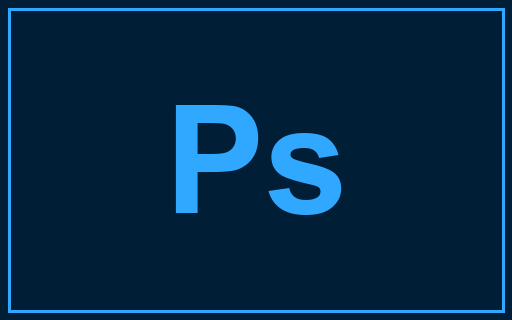
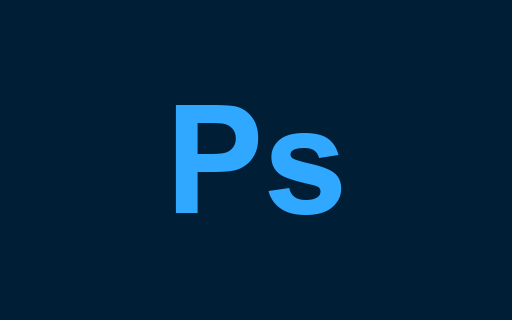
Fix Specials back-arrow bar, PSD tile line, Audio&EQ thumbnails
- Sticky category header is a frosted bar; the old gradient band read as a
  hard 'cut out' edge behind the back arrow
- Regenerate the PSD tile solid (drop the light-blue border line)
- Audio & EQ art now belongs to the FOLDER cover (Sennheiser 650 ->
  headphones) instead of being stamped on every PDF/preset/app inside it

Changed region(s): [[0.0, 0.0, 1.0, 1.0]]

diff --git a/src/components/SpecialsContent.tsx b/src/components/SpecialsContent.tsx
@@ -17,7 +17,7 @@ import { useSpecialsSelectionStore } from "../state/specialsSelectionStore";
 // sounds, themes, the programs folders). Everything shows on Windows.
 const MAC_FOLDERS = new Set(["PSD's", "Steam Profiles", "Fonts", "Wallpapers & Profile Pics"]);
 import { SpecialsCard, tileGradient } from "./SpecialsCard";
-import { resolvePreviews, categoryHeroImage } from "../lib/specialsPreview";
+import { resolvePreviews, categoryHeroImage, folderCoverImage } from "../lib/specialsPreview";
 import { SpecialsDetail } from "./SpecialsDetail";
 import { MusicGlyph } from "./MusicGlyph";
 
@@ -44,6 +44,7 @@ function CoverCard({
   folder,
   sound,
   imageOnly,
+  coverImage,
   onOpen,
 }: {
   title: string;
@@ -53,9 +54,12 @@ function CoverCard({
   folder?: boolean;
   sound?: boolean;
   imageOnly?: boolean;
+  coverImage?: string | null;
   onOpen: () => void;
 }) {
-  const unique = [...new Set(images)];
+  // An explicit folder cover (Sennheiser 650 → headphones) always wins over the collage —
+  // the art belongs to the folder, not to each file inside it.
+  const unique = coverImage ? [coverImage] : [...new Set(images)];
   return (
     <button className={`specials-cover${imageOnly ? " specials-cover--image-only" : ""}`} onClick={onOpen} aria-label={title}>
       {unique.length === 1 ? (
@@ -148,6 +152,7 @@ function ItemGrid({
               images={collageImages(all, sessionKey)}
               seed={sf.name}
               folder
+              coverImage={folderCoverImage(sf.name)}
               sound={meta.install === "sound"}
               imageOnly={title === "Programs" && /^(adobe|general)(?: programs)?$/i.test(sf.name)}
               onOpen={() => onOpenSub(sf.name)}
@@ -220,6 +225,7 @@ export function SpecialsContent() {
                     count={all.length}
                     images={collageImages(all, sessionKey)}
                     seed={g.folder}
+                    coverImage={folderCoverImage(g.folder)}
                     sound={g.meta.install === "sound"}
                     onOpen={() => {
                       setOpenFolder(g.folder);

diff --git a/src/lib/specialsPreview.ts b/src/lib/specialsPreview.ts
@@ -20,6 +20,18 @@ export function categoryHeroImage(folder: string): string | null {
   return folder === PAYDAY_FOLDER ? paydayTile : null;
 }
 
+/** Art for a FOLDER cover card (category or subfolder), keyed by its name. This is where
+ *  the Sennheiser headphones belong — the folder represents the headphone, while the files
+ *  inside it (PDFs, presets, apps) keep their own per-file icons. */
+const FOLDER_COVERS: Record<string, string> = {
+  [AUDIO_EQ_FOLDER]: sennheiserTile,
+  "Sennheiser 650": sennheiserTile,
+};
+
+export function folderCoverImage(name: string): string | null {
+  return FOLDER_COVERS[name] ?? null;
+}
+
 /** The `Tweaks/<folder>/...` category folder an item lives in. */
 export function itemFolder(item: SpecialsItem): string {
   const parts = item.objectKey.split("/");
@@ -44,7 +56,8 @@ export function resolvePreviews(item: SpecialsItem, sessionKey: string | null): 
   if (item.ext === "psd") return [photoshopTile];
   const folder = itemFolder(item);
   if (folder === PAYDAY_FOLDER) return [paydayTile];
-  if (folder === AUDIO_EQ_FOLDER) return [sennheiserTile];
   if (folder === WINDOWS_THEMES_FOLDER) return [windowsThemesTile];
+  // NOTE: Audio & EQ deliberately has NO item-level art — the headphones belong on the
+  // folder cover (see folderCoverImage), not stamped on every PDF/preset/app inside it.
   return [];
 }

diff --git a/src/App.css b/src/App.css
@@ -1311,12 +1311,17 @@ h3 {
   display: flex;
   align-items: center;
   gap: 0.6rem;
-  padding: 0.5rem 0.2rem;
-  /* Stays pinned at the top while the grid scrolls, so the back arrow is always reachable. */
+  padding: 0.5rem 0.4rem;
+  /* Stays pinned at the top while the grid scrolls, so the back arrow is always reachable.
+     A frosted bar — the old gradient band read as a hard "cut out" edge. */
   position: sticky;
   top: 0;
   z-index: 15;
-  background: linear-gradient(180deg, var(--bg) 62%, transparent);
+  margin: 0 -0.2rem;
+  border-radius: 10px;
+  background-color: color-mix(in srgb, var(--bg) 72%, transparent);
+  backdrop-filter: blur(12px) saturate(140%);
+  -webkit-backdrop-filter: blur(12px) saturate(140%);
 }
 
 /* Square icon buttons for the header (download / open-folder). */
